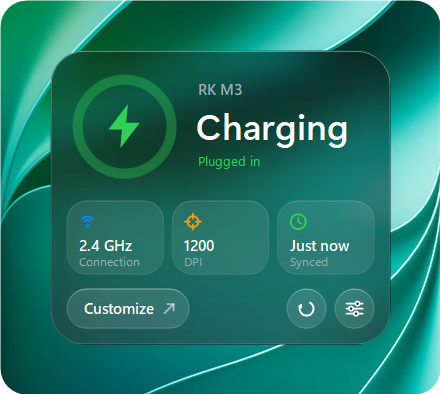
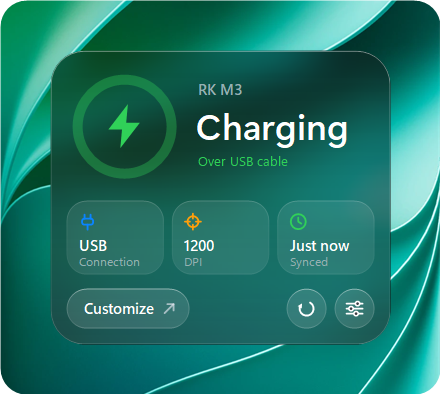
docs: charging screenshot shows the cable connection

Changed region(s): [[0.4432, 0.3959, 0.65, 0.4264], [0.1773, 0.6091, 0.2955, 0.6396], [0.1773, 0.5482, 0.2364, 0.5787]]

diff --git a/src/App/Previews.cs b/src/App/Previews.cs
@@ -30,7 +30,7 @@ namespace Nibble
                 bool charging = a.Length > 4 && a[4] == "charging";
                 bool online = !(a.Length > 4 && a[4] == "asleep");
                 bool full = a.Length > 4 && a[4] == "full";
-                var m = Session(online, full ? 100 : percent, charging, full, DateTime.Now.AddSeconds(-4));
+                var m = Session(online, full ? 100 : percent, charging, full || charging, DateTime.Now.AddSeconds(-4));
                 new Flyout(TrayApp.Preview(m)).Snapshot(a[1], a[2] == "dark", Program.Has(a, "settings"));
                 return true;
             }
@@ -38,7 +38,7 @@ namespace Nibble
             {
                 Program.InitPreview();
                 bool charging = Program.Has(a, "charging");
-                var m = Session(true, charging ? -1 : 55, charging, false, DateTime.Now);
+                var m = Session(true, charging ? -1 : 55, charging, charging, DateTime.Now);
                 using (var w = new SettingsWindow(TrayApp.Preview(m))) w.Snapshot(a[1], a[2] == "dark", int.Parse(a[3]));
                 return true;
             }
